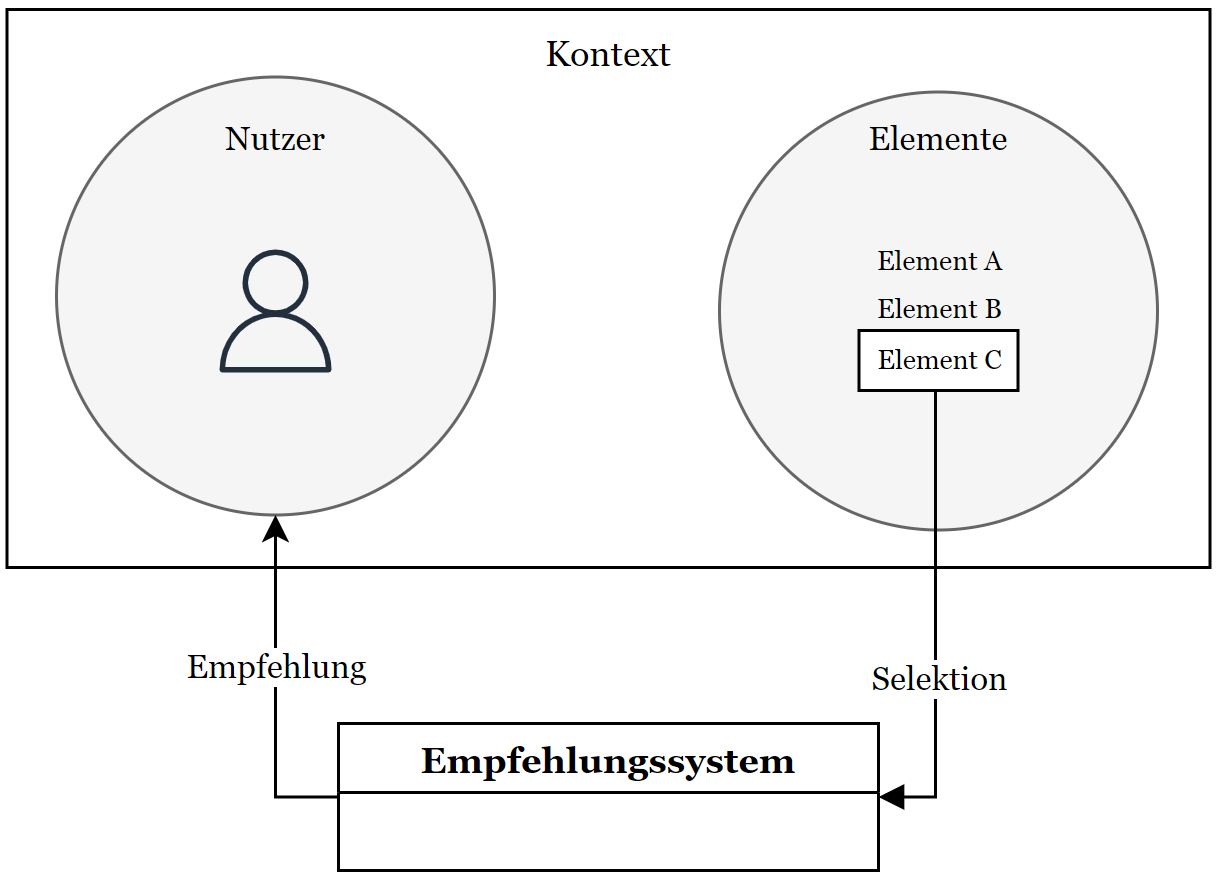
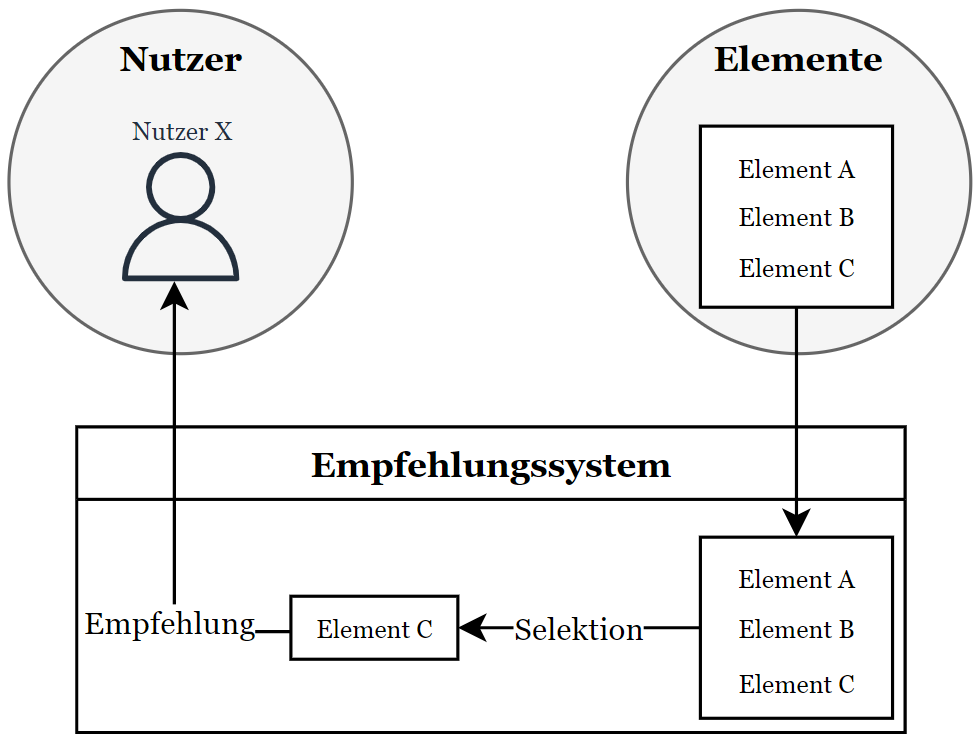
start korrektur kapitel 2

diff --git a/chapters/empfehlungssysteme.tex b/chapters/empfehlungssysteme.tex
@@ -8,69 +8,81 @@
 
 \section{Einführung}
 \label{ch:empfehlungssysteme:einführung}
-Im einfachsten Sinne können Empfehlungssysteme (engl.: \ac{RS}) als Techniken und Werkzeuge verstanden werden, die Nutzern eines Systems aus einer Menge an Elementen potenziell nützliche Elemente vorschlagen \cite[S. 10]{ricci:inbook}.
-% Wie sage ich im einfachsten sinn, wenn es nicht genau so im zitat steht?
-Etwas feingranularer definiert \textcite[S. 1]{klahold:book} Empfehlungssysteme als Systeme, die einem Nutzer oder einer Gruppe an Nutzern in einem gegebenen Kontext aus einer Menge möglicher Entitäten eine Teilmenge "nützlicher" Elemente empfehlen.
-Aus der Definition von \textcite[S. 1]{klahold:book} lassen sich die grundlegenden Komponenten, die für das Erstellen von Empfehlungen in Empfehlungssystemen von Bedeutung sind, deutlich abgrenzen.
-% Andere Wortwahl als "sehr deutlich hervorgehen", will sowas sagen wie, es ist sehr klar zu erkennen, welche komponenten beteiligt sind.
-Für ein fundiertes Verständnis sind die einzelnen Komponenten und deren Zusammenspiel in Abbildung \ref{fig:empfehlungssysteme:einführung:abb1} vereinfacht dargestellt.
+Nach \textcite[S. 4]{ricci:inbook} können Empfehlungssysteme (engl.: \ac{RS}) allgemein als Techniken und Werkzeuge verstanden werden, die einem Nutzer oder einer Gruppe an Nutzern eines Systems, aus einer Menge möglicher Entitäten, potenziell nützliche Elemente vorschlagen.
+% Allgemein können Empfehlungssysteme (engl.: \ac{RS}) als Techniken und Werkzeuge verstanden werden, die einem Nutzer oder einer Gruppe an Nutzern eines Systems, aus einer Menge möglicher Entitäten, potenziell nützliche Elemente vorschlagen \cite[S. 4]{ricci:inbook}\cite[S. 1]{klahold:book}.
+% Im einfachsten Sinne können Empfehlungssysteme (engl.: \ac{RS}) als Techniken und Werkzeuge verstanden werden, die Nutzern eines Systems aus einer Menge an Elementen potenziell nützliche Elemente vorschlagen \cite[S. 10]{ricci:inbook}.
+% Etwas feingranularer definiert \textcite[S. 1]{klahold:book} Empfehlungssysteme als Systeme, die einem Nutzer oder einer Gruppe an Nutzern in einem gegebenen Kontext aus einer Menge möglicher Entitäten eine Teilmenge "nützlicher" Elemente empfehlen.
+Aus der Definition von \textcite[S. 4]{ricci:inbook} lassen sich grundlegende Komponenten, die für das Erstellen von Empfehlungen in Empfehlungssystemen von Bedeutung sind, abgrenzen.
+Für ein fundiertes Verständnis sind die einzelnen Komponenten und deren Zusammenspiel in Abbildung \ref{fig:empfehlungssysteme:einführung:abb1} dargestellt.
 
 \begin{figure}[H]
     \centering
 	\includegraphics[width=0.8\textwidth]{gfx/komponenten-empfehlungssystem.png}
-	\caption[Komponenten eines Empfehlungssystems]{Komponenten eines Empfehlungssystems\\
+	\caption[Übersicht Empfehlungssystem]{Übersicht Empfehlungssystem\\
 	(Eigene Darstellung in Anlehnung an \cite[S. 2]{klahold:book})}
 	\label{fig:empfehlungssysteme:einführung:abb1}
 \end{figure}
 
-Wie aus Abbildung \ref{fig:empfehlungssysteme:einführung:abb1} hervorgeht, stehen sich in  Empfehlungssystemen grundsätzlich zwei Akteure gegenüber.
-% Frage: kann man Elemente als "Akteur" bezeichnen oder anderes Wort dafür?
-Auf der einen Seite stehen Empfänger von Empfehlungen, welche in Empfehlungssystemen meist als Nutzer bezeichnet werden \cite[S. 8]{ricci:inbook}.
-Dem gegenüber stehen Entitäten, die Nutzern empfohlen werden können.
-Entitäten werden in Empfehlungssystemen als Elemente bezeichnet und bilden den Inhalt von Empfehlungen.
-Dabei kann es sich bei Elementen sowohl um Gegenstände wie CDs, Bücher und Klamotten handeln, als auch beispielsweise Personen, Orte oder Prozesse.
+% Klärungsbedarf: Nutzer bewusst immer als nutzer bezeichenn, damit klar sit was gemeint ist, das ist sehr häufig in der literatur so
+% Hier fragen, ob bildbeschreibung sinn macht. ich will allgemeine übersicht abbilden, nutzer und elemente können ja auch lediglich inputs darstellen und nicht komponenten DES empfehlungssystems
+Wie aus Abbildung \ref{fig:empfehlungssysteme:einführung:abb1} hervorgeht, stehen sich bei Empfehlungssystemen grundsätzlich zwei Komponenten gegenüber.
+Auf der einen Seite stehen Empfänger von Vorschlägen, welche in Empfehlungssystemen als Nutzer bezeichnet werden \cite[S. 8]{ricci:inbook}.
+Dem entgegen stehen Entitäten, die den Anwendern eines Systems empfohlen werden können.
+Entitäten werden in Empfehlungssystemen als Elemente bezeichnet und bilden den Inhalt von Vorschlägen.
+Dabei kann es sich bei Elementen sowohl um Gegenstände wie CDs, Bücher und Hotels handeln, als auch beispielsweise Personen, Orte oder Prozesse \cite[S. 4]{klahold:book}.
 % Unter dem Kontext einer Empfehlung versteht \textcite[S. 1]{klahold:book} das Zusammenspiel aus der Situation, in der eine Empfehlung gegeben wird, dem Profil eines Nutzers sowie der Menge möglicher Entitäten zum Zeitpunkt einer Empfehlung.
-Unter dem Kontext einer Empfehlung verstehen \textcite[S. 191]{adomavicius:3:inbook} zusätzliche Parameter wie Uhrzeit, Ort oder die Gegenwart anderer Personen zum Zeitpunkt einer Empfehlung.\footnote{\textcite[S. 1]{klahold:book} versteht unter dem Kontext das Zusammenspiel aus der Situation, in der eine Empfehlung gegeben wird, dem Profil eines Nutzers sowie der Menge möglicher Entitäten zum Zeitpunkt einer Empfehlung. Es wird angenommen, dass der Kontext nach dem Verständnis von \textcite{ricci:book} gleichzusetzen ist mit der Situation nach dem Verstängnis von \textcite{klahold:book} und die Berücksichtigung von Nutzerprofil und Elementen nach dem Verständnis von \textcite{ricci:book} implizit stattfindet.}
+% Unter dem Kontext einer Empfehlung verstehen \textcite[S. 191]{adomavicius:3:inbook} zusätzliche Parameter wie Uhrzeit, Ort oder die Gegenwart anderer Personen zum Zeitpunkt einer Empfehlung.\footnote{\textcite[S. 1]{klahold:book} versteht unter dem Kontext das Zusammenspiel aus der Situation, in der eine Empfehlung gegeben wird, dem Profil eines Nutzers sowie der Menge möglicher Entitäten zum Zeitpunkt einer Empfehlung. Es wird angenommen, dass der Kontext nach dem Verständnis von \textcite{ricci:book} gleichzusetzen ist mit der Situation nach dem Verstängnis von \textcite{klahold:book} und die Berücksichtigung von Nutzerprofil und Elementen nach dem Verständnis von \textcite{ricci:book} implizit stattfindet.}
 
-Darüber hinaus können Nutzer in Empfehlungssystemen mit Elementen in Beziehung gesetzt werden.
-Beispielsweise kann eine Beziehung zwischen einem Nutzer und einem Element unterstellt werden, wenn ein Nutzer in der Vergangenheit ein Element gekauft oder bewertet hat.
-Solche Beziehungen zwischen Elementen und Nutzern in Empfehlungssystemen werden als Nutzer- Element- Interaktion oder Transaktion bezeichnet \cite[S. 8]{recommenderSystems:2016}\cite[S. 9]{ricci:inbook}.
+% Hier Johannes fragen, ob das verständlicher ist
+Nutzer und Elemente können in Empfehlungssystemen miteinander in Beziehung stehen.
+Grundlage dieser Beziehungen bilden dokumentierte Interaktionen zwischen Nutzern und Empfehlungssystem, wie der Kauf oder die Bewertung eines Produktes durch einen Anwender \cite[S. 8ff.]{ricci:inbook}.
+Dokumentierte Interaktionen werden in Empfehlungssystemen als Nutzer-Element-Interaktion oder Transaktion bezeichnet \cite[S. 8]{recommenderSystems:2016}\cite[S. 9]{ricci:inbook}.
 
-Neben Transaktionen können Nutzer bzw. Elemente in Empfehlungssystemen zusätzliche Attribute besitzen.
-Bekannte Beispiele für Attribute eines Nutzers sind das Geschlecht oder Alter eines Nutzers, während Attribute eines Produktes beispielsweise die Produktkategorie oder der Preis sein können.
+Die bekannteste Form der Nutzer-Element-Interaktion stellen Bewertungen dar.
+Bewertungen von Elementen in Empfehlungssystemen können sowohl explizit als auch implizit erfolgen.
+Unter expliziter Bewertung wird in Empfehlungssystemen die ausdrückliche Bewertung eines Elements durch einen Nutzer verstanden \cite[S. 9]{ricci:inbook}.
+Ein Beispiel stellt die aktive Bewertung eines Produktes durch einen Nutzer in einem Online-Shop in Form einer Produktrezension (z.B. "Gefällt-mir"-Angabe) dar.
+Im Vergleich dazu werden unter impliziten Bewertungen passiv erzeugte Verhaltensdaten, wie der Suchverlauf oder die Kaufhistorie eines Nutzers, verstanden, die indirekt mögliche Präferenzen eines Nutzers vermuten lassen \cite[S. 149]{jadidinejad:inproceedings}\cite[S. 403]{unternährer:article}.
+
+Neben Transaktionen können Nutzer bzw. Elemente in Empfehlungssystemen zusätzliche Attribute besitzen \cite[S. 8]{recommenderSystems:2016}.
+Beispiele für Attribute eines Nutzers sind das Geschlecht oder Alter eines Anwenders, während Attribute eines Produktes beispielsweise die Produktkategorie oder beschreibende Schlagwörter.
 % Unterschied Kombination und Interaktion? Kombibnation ist nicht zwangsläufig das vorhandensein einer Interaktion
-
-% Einigung: Nützlichkeit bezieht sich nicht auf die Güte einer Empfehlung, sondern auf den Nutzen einer Kombination. Güte beschreibt Wert einer Empfehlung.
-Der Begriff der "Nützlichkeit" wird in der Literatur vermehrt verwendet, um den Wert eines Elements für einen Nutzer zu beschreiben \cite[S. 10f.]{ricci:inbook}\cite[S. 1]{klahold:book}\cite[S. 735]{adomavicius:inproceedings}.\footnote{Unter der Nützlichkeit kann in dem Kontext von Empfehlungssystemen auch die Güte einer Empfehlung verstanden werden \cite[S. 37ff.]{klahold:book}.}
-Dabei kann der Nutzen sowohl unmittelbar über Angaben eines Nutzers erschlossen, als auch über eine Nutzenfunktion des Empfehlungssystems berechnet werden \cite[S. 735]{adomavicius:inproceedings}.
-Da die Ermittlung des Nutzen durchaus komplex sein kann, wird der Aspekt der "Nützlichkeit" in Kapitel \ref{ch:empfehlungssysteme:nutzenfunktion} ausführlich aufgegriffen.
 
 \section{Problemstellung}
 \label{ch:empfehlungssysteme:problemstellung}
 % Im vorangegangenen Kapitel wurden grundlegende Komponenten von Empfehlungssystemen und deren Zusammenspiel erläutert.
-Das grundlegende Problem, welches Empfehlungssysteme zu lösen versuchen, besteht darin, aus einer Menge an Elementen das Element bzw. die Elemente zu ermitteln, von denen angenommen werden kann, dass diese für die Empfänger einer Empfehlung von Relevanz sind \cite[S. 734f.]{adomavicius:inproceedings}\cite[S. 76]{jannach:inproceedings}.
-Relevanz bedeutet in dem Kontext von Empfehlungssystemen, dass die Empfehlung an einen Nutzer bzw. eine Gruppe an Nutzern einen maximalen Nutzen bietet \cite[S. 49]{adomavicius:inproceedings:2}\cite[S. 219]{lakiotaki:inproceedings}.
+% Das grundlegende Problem in Empfehlungssystemen besteht in der Auswahl der Elemente aus einer Menge an Entitäten, von denen angenommen werden kann, dass diese für die Empfänger einer Empfehlung von Relevanz sind \cite[S. 734f.]{adomavicius:inproceedings}\cite[S. 76]{jannach:inproceedings}.
+Das grundlegende Problem in Empfehlungssystemen besteht in der Auswahl der Elemente, von denen angenommen werden kann, dass diese für die Empfänger einer Empfehlung von Relevanz sind \cite[S. 734f.]{adomavicius:inproceedings}\cite[S. 76]{jannach:inproceedings}.
+Relevanz bedeutet in dem Kontext von Empfehlungssystemen, dass ein Element für einen Nutzer bzw. eine Gruppe an Nutzern einen maximalen Nutzen bietet \cite[S. 49f.]{adomavicius:inproceedings:2}\cite[S. 219]{lakiotaki:inproceedings}.
 Formal ausgedrückt besteht das Problem darin, einem Nutzer $c$ eine Menge an Elementen $s^{'}$ $\in$ $S$ zur Verfügung zu stellen, für die gilt:
 \begin{equation}\label{eq1}
     \forall c\in C,  s'_c = arg\max_{s \in S} R(c,s)
 \end{equation}
-Hierbei gibt $C$ die Menge aller Nutzer eines Systems und $R(c,s)$ den Nutzen einer Kombination $(c,s)$ an Element $s$ und Nutzer $c$ (im Folgenden Nutzer- Element- Kombination genannt \cite[S. 3]{recommenderSystems:2016}) an \cite[S. 734f.]{adomavicius:inproceedings}\cite[S. 219]{lakiotaki:inproceedings}.
-Der Kontext $K$ wird in \textcite[S. 1]{klahold:book} explizit für die Ermittlung des Nutzen einer Nutzer- Element- Kombination angeführt.
-Grundsätzlich stellen kontextbasierte Empfehlungssysteme, das heißt Syteme, die den Kontext von Empfehlungen für die Ermittlung des Nutzen berücksichtigen, eine Erweiterung traditioneller Empfehlungssyteme dar \cite[S. 744ff.]{adomavicius:inproceedings}.
-In der Literatur wird der Nutzen einer Nutzer- Element- Kombination traditionell ohne Berücksichtigung des Kontextes betrachtet, weshalb der Kontext von Empfehlungen in dieser Arbeit vernachlässigt wird \cite[S. 734f.]{adomavicius:inproceedings}\cite[S. 219]{lakiotaki:inproceedings}\cite[S. 3]{jawaheer:article}.
-In Anlehnung an \textcite[S. 3]{jawaheer:article} wird der interessierte Leser für eine detaillierte Übersicht zu kontextbasierten Empfehlungssystemen auf \textcite[S. 191ff]{adomavicius:3:inbook} verwiesen.
+Hierbei gibt $C$ die Menge aller Nutzer eines Systems und $R(c,s)$ den Nutzen einer Kombination $(c,s)$ an Element $s$ und Nutzer $c$ (im Folgenden \ac{N-E-K} genannt \cite[S. 3]{recommenderSystems:2016}) an \cite[S. 734f.]{adomavicius:inproceedings}\cite[S. 219]{lakiotaki:inproceedings}.
+
+% Der Kontext $K$ wird in \textcite[S. 1]{klahold:book} explizit für die Ermittlung des Nutzen einer Nutzer- Element- Kombination angeführt.
+% Unter dem Kontext einer Empfehlung verstehen \textcite[S. 191]{adomavicius:3:inbook} zusätzliche Parameter wie Uhrzeit, Ort oder die Gegenwart anderer Personen zum Zeitpunkt einer Empfehlung.
+% Grundsätzlich stellen kontextbasierte Empfehlungssysteme, das heißt Syteme, die den Kontext von Empfehlungen für die Ermittlung des Nutzen berücksichtigen, eine Erweiterung traditioneller Empfehlungssyteme dar \cite[S. 744ff.]{adomavicius:inproceedings}.
+% In der Literatur wird der Nutzen einer Nutzer- Element- Kombination traditionell ohne Berücksichtigung des Kontextes betrachtet, weshalb der Kontext von Empfehlungen in dieser Arbeit vernachlässigt wird \cite[S. 734f.]{adomavicius:inproceedings}\cite[S. 219]{lakiotaki:inproceedings}\cite[S. 3]{jawaheer:article}.
+% In Anlehnung an \textcite[S. 3]{jawaheer:article} wird der interessierte Leser für eine detaillierte Übersicht zu kontextbasierten Empfehlungssystemen auf \textcite[S. 191ff]{adomavicius:3:inbook} verwiesen.
 % In den Formulierungen der Gleichung in \cite[S. 734f]{adomavicius:inproceedings} und \cite[S. 219]{lakiotaki:inproceedings} wird jedoch nicht explizit auf den Kontext als Bedingung zur Erfüllung von Gleichung \ref{eq1} hingewiesen.
 % Es wird angenommen, dass der Kontext für die Ermittlung der Güte einer Empfehlung implizit berücksichtigt wird und daher auf eine explizite Nennung verzichtet wurde. In Anlehnung an \cite[S. 734f]{adomavicius:inproceedings} und \cite[S. 219]{lakiotaki:inproceedings} wurde daher auf die explizite Unterscheidung im weiteren Verlauf verzichtet.
 
-Da es sich bei dem Problem des Ermittelns einer nutzenmaximierenden Teilmenge aus einer Menge an Elementen um ein Maximierungs- Problem handelt, kann das Problem der Kategorie der Optimierungsprobleme, wie in \textcite[S. 1]{book:kallrath} definiert, zugeordnet werden.
+Bei dem beschriebenen Problem in Gleichung \ref{eq1} handelt es sich um ein Maximierungsproblem.
+Nach \textcite[S. 1]{book:kallrath} können Maximierungsprobleme der Kategorie der Optimierungsprobleme zugeordnet werden.
+Die Problematik des Ermittelns einer nutzenmaximierenden Teilmenge aus einer Menge an Elementen gehört demnach zu der Kategorie der Optimierungsprobleme.
+% Da es sich bei dem Problem des Ermittelns einer nutzenmaximierenden Teilmenge aus einer Menge an Elementen um ein Maximierungsproblem handelt, kann das Problem der Kategorie der Optimierungsprobleme, wie in \textcite[S. 1]{book:kallrath} definiert, zugeordnet werden.
+
+% Einigung: Nützlichkeit bezieht sich nicht auf die Güte einer Empfehlung, sondern auf den Nutzen einer Kombination. Güte beschreibt Wert einer Empfehlung.
+Der Begriff der "Nützlichkeit" wird in der Literatur vermehrt verwendet, um den Wert eines Elements für einen Nutzer zu beschreiben \cite[S. 10f.]{ricci:inbook}\cite[S. 1]{klahold:book}\cite[S. 735]{adomavicius:inproceedings}.\footnote{Unter der Nützlichkeit kann in dem Kontext von Empfehlungssystemen auch die Güte einer Empfehlung verstanden werden \cite[S. 37ff.]{klahold:book}.}
+Dabei kann der Nutzen sowohl unmittelbar über Angaben eines Anwenders erschlossen, als auch über eine Nutzenfunktion des Empfehlungssystems berechnet werden \cite[S. 735]{adomavicius:inproceedings}.
+Da die Ermittlung des Nutzens durchaus komplex sein kann, wird der Aspekt der "Nützlichkeit" nachfolgend ausführlich aufgegriffen.
 
 \section{Nutzenfunktion} % Unterschied Nutzen und Güte?
 \label{ch:empfehlungssysteme:nutzenfunktion}
 % Frage: ist mit der Güte die Güte einer Empfehlung gemeint (gefällt einem nutzer die Empfehlung ja/nein), oder ist damit die Güte im Sinne von die Qualität von Empfehlungssystemen gemeint?
 % Der erfolgreiche Einsatz von Empfehlungssystemen wird maßgeblich von der Qualität der ausgesprochenen Empfehlungen bestimmt.
-In Kapitel \ref{ch:empfehlungssysteme:einführung} wurde bereits darauf hingewiesen, dass die Ermittlung der "Nützlichkeit" in Empfehlungssystemen durchaus komplex sein kann.
-
-Wie aus Gleichung \ref{eq1} hervorgeht, wird für den Nutzen einer Nutzer- Element- Kombination in Empfehlungssystemen allgemein eine Funktion $R(c,s)$ angenommen.
+Wie aus Gleichung \ref{eq1} hervorgeht, wird für den Nutzen einer \ac{N-E-K} in Empfehlungssystemen allgemein eine Funktion $R$ angenommen.
 Diese Funktion wird Nutzenfunktion (engl.: utility function) genannt und ist traditionell definiert als \cite[S. 195]{adomavicius:3:inbook}\cite[S. 3]{jawaheer:article}:
 \begin{equation}\label{eq2}% Dabei handelt es sich um eine lineare Abbildung, bei der über die Funktion u jeder Kombination aus der nxm matrix, genau ein Wert aus R, also der Rating matrix, zugeordnet werden kann
     R: Nutzer \times Element \rightarrow R_{0}
@@ -80,26 +92,25 @@ $R_{0}$ umfasst alle Werte, die der Nutzen von Kombinationen annehmen kann \cite
 % In Systemen, in denen der Wert einer Transaktion beispielsweise über eine explizite, binäre Bewertung (z.B. "Gut", "Schlecht") eines Nutzers für ein Element bestimmt wird, würde $R_{0}$ genau die zwei Ausprägungen umfassen, die eine Bewertung annehmen kann (hier: "Gut" und "Schlecht").
 
 Grundsätzlich kann die Nutzenfunktion in Empfehlungssystemen jede beliebige Funktion darstellen \cite[S. 735]{adomavicius:inproceedings}.
-Angenommen das Ziel eines Empfehlungssystems besteht darin, den Gesamtumsatz eines Unternehmens zu maximieren, so kann der Nutzen einer Nutzer- Element- Kombination über eine Profit-Funktion ermittelt werden.
+Besteht das Ziel eines Empfehlungssystems bespielsweise darin, den Gesamtumsatz eines Unternehmens zu maximieren, so kann der Nutzen einer \ac{N-E-K} über eine Profit-Funktion ermittelt werden \cite[S. 735]{adomavicius:inproceedings}.
 % Solche Systeme, in denen der Nutzen von Nutzer- Element- Kombinationen über eine eigenständige Nutzenfunktion ermittelt wird, zählen zu den nutzenbasierten Empfehlungssystemen und sind nicht Inhalt dieser Arbeit.
-In den meisten Empfehlungssystemen wird für den Nutzen $R(c,s)$ einer Nutzer- Element- Kombination $(c,s)$ unmittelbar die Bewertung (engl.: Rating) $r_{cs}$ eines Element $s$ durch einen Nutzer $c$ angenommen \cite[S. 735]{adomavicius:inproceedings}\cite[S. 9]{ricci:inbook}\cite[S. 11]{recommenderSystems:2016}.
+In den meisten Empfehlungssystemen wird für den Nutzen $R(c,s)$ unmittelbar die Bewertung (engl.: Rating) $r_{cs}$ eines Element $s$ durch einen Nutzer $c$ angenommen \cite[S. 735]{adomavicius:inproceedings}\cite[S. 9]{ricci:inbook}\cite[S. 11]{recommenderSystems:2016}.
 Daher ist die Nutzenfunktion in der Literatur auch als Rating-Funktion oder Rating-Matrix bekannt \cite[S. 49]{adomavicius:inproceedings:2}\cite[S. 91]{ekstrand:article}\cite[S. 11]{recommenderSystems:2016}.
-Aus Gründen der Einfachheit wird für den weiteren Verlauf der Arbeit vorerst unmittelbar der Wert der Bewertung $r_{cs}$ für den Nutzen $R(c,s)$ einer Nutzer- Element- Kombination angenommen (d.h. $R(c,s) = r_{cs}$).
-% HIER ERWÄHNEN DASS ERSTMAL AUCH RATING GENOMMEN WIRD!
+Aus Gründen der Einfachheit wird für den weiteren Verlauf der Arbeit ebenfalls der Wert einer Bewertung $r_{cs}$ für den Nutzen $R(c,s)$ einer \ac{N-E-K} $(c,s)$ angenommen (d.h. $R(c,s) = r_{cs}$).
 % Diese Abbildung einer Funktion als Matrix folgt der mathematischen Definition von Matrizen als lineare Funktion.
 % Es wird davon ausgegangen, dass die gängige Verwendung des Ratings als Maß des Nutzen eines Elements für einen Nutzer daher kommt, dass Empfehlungssysteme traditionell in dem Kontext item-to-people-recommendation eingesetzt wurden.
 % In solchen systemen ist es meistens das ziel, die elemente zu empfehlen, die den nutzer am meisten ansprechen. -> Folglich Nutzen einer Nutzer-Element-Kombination bedeutet Nutzen eines Elements für einen Nutzer. (kann aber ja auch bedeuten nutzen eines elements für einen nutzer im sinne von profitmaximierung)
 % Unter der Annahme ist damit erklärbar, dass mit einer gewissen Konfidenz davon ausgegangen werden kann, dass die Bewertung eines Nutzers für ein Element auch dessen gefühlten Nutzen des ELements für ihn abbildet.
 
-Bewertungen von Elementen in Empfehlungssystemen können sowohl explizit als auch implizit erfolgen.
-Unter expliziter Bewertung kann in Empfehlungssystemen die ausdrückliche Bewertung eines Elements durch einen Nutzer verstanden werden.
-Ein Beispiel stellt die aktive Bewertung eines Produktes durch einen Nutzer in einem Online-Shop in Form einer Produktrezension (z.B. "Gefällt-mir"-Angabe) dar.
-Im Vergleich dazu werden unter impliziten Bewertungen in Empfehlungssystemen passiv erzeugte Verhaltensdaten, wie der Suchverlauf oder die Kaufhistorie eines Nutzers, verstanden, die indirekt mögliche Präferenzen eines Nutzers vermuten lassen \cite[S. 149]{jadidinejad:inproceedings}\cite[S. 403]{unternährer:article}.
+%Bewertungen von Elementen in Empfehlungssystemen können sowohl explizit als auch implizit erfolgen.
+%Unter expliziter Bewertung kann in Empfehlungssystemen die ausdrückliche Bewertung eines Elements durch einen Nutzer verstanden werden.
+%Ein Beispiel stellt die aktive Bewertung eines Produktes durch einen Nutzer in einem Online-Shop in Form einer Produktrezension (z.B. "Gefällt-mir"-Angabe) dar.
+%Im Vergleich dazu werden unter impliziten Bewertungen in Empfehlungssystemen passiv erzeugte Verhaltensdaten, wie der Suchverlauf oder die Kaufhistorie eines Nutzers, verstanden, die indirekt mögliche Präferenzen eines Nutzers vermuten lassen \cite[S. 149]{jadidinejad:inproceedings}\cite[S. 403]{unternährer:article}.
 % IDEE: hier einfügen Rating Scales? Ordinal, numeric, etc.
 
 Tabelle \ref{tab1} stellt beispielhaft den Ausschnitt einer Rating-Matrix $R$ dar, welche explizite Bewertungen von Mitarbeitern zu ihren Fähigkeiten abbildet \cite[S. 735]{adomavicius:inproceedings}\cite[S. 16]{link:booklet}.
 Hierbei stellen Mitarbeiter die Nutzer und Fähigkeiten die Elemente des Systems dar.
-Der Nutzen $R(c,s)$ einer Kombination wird unmittelbar über die Bewertung $r_{cs}$ eines Mitarbeiters $c$ für eine Fähigkeit $s$ bestimmt.
+Der Nutzen einer Kombination $R(c,s)$ wird unmittelbar über die Bewertung $r_{cs}$ eines Mitarbeiters $c$ für eine Fähigkeit $s$ bestimmt.
 Eine Bewertung kann jeden Wert in $R_{0}=\{1;2;3;4;5\}$ annehmen.
 
 \begin{table}[htbp]
@@ -123,15 +134,12 @@ Eine Bewertung kann jeden Wert in $R_{0}=\{1;2;3;4;5\}$ annehmen.
 
 Der Rating-Matrix $R$ können alle angegebenen Bewertungen von Mitarbeitern zu ihren Fähigkeiten entnommen werden.
 So wird beispielsweise ersichtlich, dass Jane D. im Verhältnis zu den anderen Mitarbeitern ihre Fähigkeiten in Python am höchsten bewertet hat.
-Darüber hinaus geht aus Tabelle \ref{tab1} hervor, dass einige Nutzer- Element- Kombinationen $(c,s)$ anstelle einer Bewertung $r_{cs}$ ein Fragezeichen beinhalten.
-Das Fragezeichen kennzeichnet die Kombinationen des Empfehlungssystems, für deren Transaktion kein Wert bekannt ist.
-Das kann beispielsweise bei Nutzern der Fall sein, die noch keine Elemente bewertet haben, oder bei Elementen, die neu einem System hinzugefügt wurden und noch keine Interaktion mit Nutzern des Systems aufweisen.
+Darüber hinaus geht aus Tabelle \ref{tab1} hervor, dass einige Kombinationen an Nutzer und Element anstelle einer Bewertung $r_{cs}$ ein Fragezeichen beinhalten.
+Dieses kennzeichnet die Kombinationen des Empfehlungssystems, für die keine Bewertungen vorhanden sind.
+Das kann beispielsweise bei Nutzern der Fall sein, die noch keine Elemente bewertet haben, oder bei Elementen, die neu zu einer Anwendung hinzugefügt wurden und noch keine Interaktion mit Nutzern des Systems aufweisen.
 Wie im nachfolgenden Kapitel deutlich werden wird, stellt die Vorhersage fehlender Nutzer-Element-Interaktionen eine der Kernaufgaben von Empfehlungssystemen dar.
-% Zu den Herausforderungen von Empfehlungssystemen zählt das Ermitteln der angenommenen Werte $R(c_{i},s_{j})$ für Nutzer bzw. Elemente, für die keine Bewertungen vorliegen.
 % Nach \textcite[S. 37]{klahold:book} besteht eine der Herausforderungen in der Ermittlung des tatsächlichen Nutzen einer Empfehlung darin, dass für eine objektive Beurteilung die genaue Nutzenfunktion einer Empfehlung an einen Nutzer bekannt sein muss.
-% In der Praxis gestaltet sich die Bestimmung einer akkuraten Nutzenfunktion zur Ermittlung der Güte einer Empfehlung für die Nutzer eines Systems jedoch zumeist schwierig.
 % Hier ergänzen nach gespräch mit Andreas. Quellen dazu: Klahod S. 37ff und hier: https://api-depositonce.tu-berlin.de/server/api/core/bitstreams/b490302e-8b6a-4300-946f-b5763c2b47d7/content
-% The design of effective utility functions often requires domain-specific knowledge, or learning data from past user interactions. % aggarwal, S. 178
 
 \section{Erstellen von Empfehlungen}
 \label{ch:empfehlungssysteme:empfehlungserstellung}
@@ -142,21 +150,22 @@ Grundsätzlich kann das Erstellen von Empfehlungen in Empfehlungssystemen in zwe
 	\item Ranking-Phase
 \end{enumerate}
 
-In der Vorhersage-Phase werden für alle Nutzer-Element-Kombinationen, für die keine Transaktionen vorliegen, deren Nutzer-Element-Interaktion vorhergesagt.
-Für die Ranking-Phase werden die (angenommenen) Nutzer-Element-Interaktionen aus Phase 1 herangezogen, in Abhängigkeit ihrer Nützlichkeit sortiert und das Element bzw. die Elemente mit dem größten Nutzen empfohlen.
+In der Vorhersage-Phase werden für alle \ac{N-E-K}-en, für die keine Transaktionen vorliegen, deren Nutzer-Element-Interaktion vorhergesagt \cite[S. 3]{recommenderSystems:2016}.
+Für die Ranking-Phase werden die (angenommenen) Nutzer-Element-Interakti\-onen aus Phase 1 herangezogen, in Abhängigkeit ihrer Nützlichkeit sortiert und das Element bzw. die Elemente mit dem größten Nutzen empfohlen \cite[S. 854]{adomavicius:4:inbook}.
 Nachfolgend werden die einzelnen Phasen im Detail erläutert.
 
 \subsection{Vorhersage}
 \label{ch:empfehlungssysteme:empfehlungserstellung:prediction}
 % Ratings normalerweise nur vorhanden bei nutzern, die diese produkte in der vergangenheit bewertet haben, S. 735, file://wsl%24/Ubuntu/home/masc6/Projects/masterarbeit/literatur/Toward_the_next_generation_of_recommender_systems_a_survey_of_the_state-of-the-art_and_possible_extensions.pdf
-Wie aus Gleichung \ref{eq1} hervorgeht, ist das Vorhandensein eines Wertes für eine Nutzer- Element- Interaktion Voraussetzung, um die Nützlichkeit der Kombination im Vergleich zu anderen Nutzer- Element- Kombinationen zu bewerten.
+Wie aus Gleichung \ref{eq1} hervorgeht, ist das Vorhandensein einer Nutzer-Ele\-ment-Interaktion Voraussetzung, um die Nützlichkeit einer Kombination im Vergleich zu anderen \ac{N-E-K}-en zu bewerten.
 Eine gängige Eigenschaft von Umgebungen, in denen Empfehlungssysteme ihren Einsatz finden, ist, dass die zugrundeliegenden Daten unvollständig sind \cite[S. 735]{adomavicius:inproceedings}.
 Das bedeutet, dass nicht für jede Kombination an Nutzer und Element ein Wert für $r_{cs}$ vorliegt (wie in Tabelle \ref{tab1} durch Fragezeichen gekennzeichnet).
 So ist es beispielsweise anhand der Daten aus Tabelle \ref{tab1} nicht möglich zu Beurteilen, welche der beiden Mitarbeiter Jane D. und Erika M. die Fähigkeit Java besser beherrscht.
 % Würde beispielsweise für Erika M. aus Tabelle \ref{tab1} versucht zu Bestimmen, ob ihre Fähigkeiten in Java oder Python höher sind, könnte anhand von Gleichung \ref{eq1} aufgrund der fehlenden Nutzer-Element-Interaktion keine Aussage getroffen werden.
 
-Aufgabe eines Empfehlungssystems ist es daher die fehlenden Werte für Nutzer- Element- Kombinationen der Rating-Matrix $R$ vorherzusagen.
-Für die Vorhersage einer Nutzer- Element- Kombination $\hat{r}_{c,s}$ der Matrix $R$ kann allgemein folgende Formel angenommen werden (in Anlehnung an \cite[S. 743]{adomavicius:inproceedings}):\footnote{Voraussetzung der Gültigkeit der Formel \ref{eq3} ist die Annahme, dass gilt $r_{cs} = R(c,s)$. Das bedeutet, dass für den Nutzen einer Nutzer- Element- Kombination unmittelbar der Wert der Bewertung $r_{cs}$ eines Nutzers $c$ für das Element $s$ angenommen werden kann (Vgl. Kapitel \ref{ch:empfehlungssysteme:nutzenfunktion}).}
+Aufgabe eines Empfehlungssystems ist es daher, die fehlenden Bewertungen für \ac{N-E-K}-en der Rating-Matrix $R$ vorherzusagen.
+Sei $\hat{r}_{cs}$ der angenommene Wert einer Nutzer-Element-Interaktion, so wird $\hat{r}_{cs}$ in Empfehlungssystemen allgemein wie folgt vorhergesagt (in Anlehnung an \cite[S. 743]{adomavicius:inproceedings}):\footnote{Voraussetzung der Gültigkeit der Formel \ref{eq3} ist die Annahme, dass gilt $r_{cs} = R(c,s)$. Das bedeutet, dass für den Nutzen einer \ac{N-E-K} unmittelbar der Wert der Bewertung $r_{cs}$ eines Nutzers $c$ für das Element $s$ angenommen werden kann (Vgl. Kapitel \ref{ch:empfehlungssysteme:nutzenfunktion}).}
+% Für die Vorhersage einer Nutzer- Element- Kombination $\hat{r}_{cs}$ der Matrix R kann allgemein folgende Formel angenommen werden (in Anlehnung an \cite[S. 743]{adomavicius:inproceedings}):\footnote{Voraussetzung der Gültigkeit der Formel \ref{eq3} ist die Annahme, dass gilt $r_{cs} = R(c,s)$. Das bedeutet, dass für den Nutzen einer \ac{N-E-K} unmittelbar der Wert der Bewertung $r_{cs}$ eines Nutzers $c$ für das Element $s$ angenommen werden kann (Vgl. Kapitel \ref{ch:empfehlungssysteme:nutzenfunktion}).}
 \begin{equation}\label{eq3}
 \hat{r}_{cs} =
     \begin{cases}
@@ -164,28 +173,31 @@ Für die Vorhersage einer Nutzer- Element- Kombination $\hat{r}_{c,s}$ der Matri
         R(c,s) & \textnormal{wenn }r_{cs} = \textnormal{ ?} \\
     \end{cases}
 \end{equation}
-Demnach kann der Wert einer Bewertung $\hat{r}_{c,s}$ vorhergesagt werden, entweder unmittelbar über vorhandene Nutzer- Element- Interaktionen $r_{cs}$, oder unter Anwendung der Nutzenfunktion $R(c,s)$ bei fehlenden Nutzer- Element- Kombinationen.
+Das heißt, grundsätzlich wird $\hat{r}_{cs}$ entweder unmittelbar über vorhandene Nutzer-Element-Interaktionen $r_{cs}$, oder bei fehlenden Transaktionen für $(c,s)$ unter Anwendung der Nutzenfunktion $R$ vorhergesagt werden.
+%Demnach wird eine Bewertung $\hat{r}_{cs}$ entweder unmittelbar über vorhandene Nutzer-Element-Interaktionen $r_{cs}$, oder bei fehlenden Transaktionen für $(c,s)$ unter Anwendung der Nutzenfunktion $R$ vorhergesagt werden.
 % Unterschied ist, dass hier rij sich von u unterscheidet und bei uns einfach erstmal R als ein wert angenommen wird
 % Wichtig hier klar zu definieren, dass die Nützlichkeit oft so definiert ist, dass sie entweder explizit gegeben ist, oder über u berechnet wird für fehlende werte von r
 % bei uns wird dann quasi u für alle werte berechnet, da wir ja nicht explizit einen wert annehmen, sondern Ro sich aus r1 und r2 usw zusammensetzt
 
-In der Praxis existieren verschiedene Techniken, um fehlende Nutzer-Elemet-Kombinationen vorherzusagen.
+In der Praxis existieren verschiedene Techniken, um fehlende Nutzer-Ele\-ment-Interaktionen vorherzusagen.
 Empfehlungssysteme können anhand der eingesetzten Technik für die Vorhersage in verschiedene Kategorien unterteilt werden \cite[S. 8 ff.]{recommenderSystems:2016}.
 Zu den bekanntesten Kategorien von Empfehlungssystemen zählen:
 \begin{itemize}%Sind die mathematischen Bezeichnungen hier verwirrend oder sinnvoll?
-	\item \textit{Systeme des Kollaborativen Filterns:} Vorhersage fehlender Nutzer- Element- Interaktionen $r_{cs}$ eines Zielnutzers $c$ anhand vorhandener Nutzer- Element- Interaktionen $r_{c's}$ anderer Nutzer $c' \in C \backslash \{c\}$ des Systems, die dem Zielnutzer $c$ ähnlich sind.
-	\item \textit{Inhaltsbasierte Systeme:} Vorhersage fehlender Nutzer- Element- Interaktionen $r_{cs}$ eines Zielnutzers $c$ anhand vorhandener Nutzer- Element- Interaktionen $r_{cs'}$ des Zielnutzers zu Elementen $s' \in S \backslash \{s\}$, die dem Zielelement $s$ ähnlich sind.
-	\item \textit{Wissensbasierte Systeme:} Vorhersage fehlender Nutzer- Element- Interaktionen eines Zielnutzers anhand der aktiven Angabe von Präferenzen durch den Zielnutzer.
-	\item \textit{Hybride Systeme:} Kombination verschiedener Techniken für die Vorhersage fehlender Nutzer- Element- Kombinationen.
+	\item \textit{Systeme des Kollaborativen Filterns:} Vorhersage fehlender Nutzer-Element-Interaktionen $r_{cs}$ eines Zielnutzers $c$ anhand vorhandener Nutzer-Ele\-ment-Interaktionen $r_{c's}$ anderer Nutzer $c' \in C \backslash \{c\}$ des Systems, die dem Zielnutzer $c$ ähnlich sind.
+	\item \textit{Inhaltsbasierte Systeme:} Vorhersage fehlender Nutzer-Element-Interakti\-onen $r_{cs}$ eines Zielnutzers $c$ anhand vorhandener Nutzer-Element-Inter\-aktionen $r_{cs'}$ des Zielnutzers zu Elementen $s' \in S \backslash \{s\}$, die dem Zielelement $s$ ähnlich sind.
+	\item \textit{Wissensbasierte Systeme:} Vorhersage fehlender Nutzer-Element-Interakti\-onen eines Zielnutzers anhand der aktiven Angabe von Präferenzen durch den Zielnutzer.
+	\item \textit{Hybride Systeme:} Kombination verschiedener Techniken für die Vorhersage fehlender Nutzer-Element-Interaktionen.
 \end{itemize}
 
-Der Fokus dieser Arbeit liegt auf der zweiten Phase des Empfehlungserstellungs-Prozesses, weshalb auf eine Erläuterung der Techniken nachfolgend verzichtet wird.
-Für eine detaillierte Übersicht der bekanntesten Werkzeuge wird der interessierte Leser auf \textcite[S. 8ff.]{recommenderSystems:2016} verwiesen.
+Der Fokus dieser Arbeit liegt auf der zweiten Phase des Empfehlungserstel\-lungs-Prozesses, weshalb auf eine eingehende Erläuterung der Techniken nachfolgend verzichtet wird.
+Für eine detaillierte Übersicht der bekanntesten Werkzeuge wird auf \textcite[S. 8ff.]{recommenderSystems:2016} verwiesen.
 
 \subsection{Ranking}
 \label{ch:empfehlungssysteme:empfehlungserstellung:recommendation}
 Die zweite Phase umfasst die eigentliche Erstellung der Empfehlungen, die an einen Nutzer zurückgegeben werden.
-Das Ziel der zweiten Phase ist es, einem Nutzer $c$ in Abhängigkeit der gegebenen Rating-Matrix $R$ eine Empfehlung an Elementen $s'$ mit dem größtmöglichen Nutzen zu generieren \cite[S. 6]{ekstrand:article}.
+Ziel ist es, einem Nutzer $c$ in Abhängigkeit der vollständigen Rating-Matrix $R$ eine Empfehlung an Elementen $s'$ mit dem größtmöglichen Nutzen zu generieren \cite[S. 87]{ekstrand:article}.
+% Wichtig zu unterscheiden, dass die Empfehlungen nicht zwangsäufig die präferenzen des nutzers empfehlen müssen, da diese auch von anderen kriterien abhängen könnne, siehe quelle unten
+% HIER WEITERMACHEN mit S. 87, file://wsl%24/Ubuntu/home/masc6/Projects/masterarbeit/literatur/Collaborative%20Filtering%20Recommender%20Systems.pdf
 
 In Abhängigkeit des Anwendungsfalls kann eine Empfehlung verschiedene Formen annehmen.
 So kann eine Empfehlung eine Gruppe an Elementen darstellen.
@@ -194,7 +206,7 @@ In den meisten Fällen geben Empfehlungssysteme eine sortierte Liste der nützli
 Dabei wird die Nützlichkeit einer Kombination, wie in Kapitel \ref{ch:empfehlungssysteme:empfehlungserstellung:prediction} erläutert, zumeist anhand eines Ratings durch einen Nutzer bestimmt, oder über eine Nutzenfunktion in Phase 1 vorhergesagt.
 Diese Ratings erfolgen in gängigen Empfehlungssystemen zumeist anhand eines Kriteriums, beispielsweise in Form eines übergreifenden Ratings für ein Element.
 
-In der Praxis kann es vorkommen, dass von einem vorhergesagten Wert einer Nutzer- Element- Kombination nicht unmittelbar auf den tatsächlichen Rang einer Kombination im Ranking geschlossen werden kann, beispielsweise da noch andere Kriterien den Nutzen (und somit den Rang) einer Kombination beeinflussen \cite[S. 405]{unternährer:article}.
+In der Praxis kann es vorkommen, dass von einem vorhergesagten Wert einer \ac{N-E-K} nicht unmittelbar auf den tatsächlichen Rang einer Kombination im Ranking geschlossen werden kann, beispielsweise da noch andere Kriterien den Nutzen (und somit den Rang) einer Kombination beeinflussen \cite[S. 405]{unternährer:article}.
 Wie in Kapitel \ref{ch:erweiterungen} deutlich werden wird, ist die Bestimmung des Nutzen eines Elements für einen Nutzer anhand eines einzelnen Kriteriums (e.g. dem Rating) nicht immer ausreichend, um dessen Nutzen zuverlässig zu bestimmen \cite[S. 847]{adomavicius:4:inbook}.
 % ------- Hier (oder oben?) kurze Zusammenfassung der Begrifflichkeiten (siehe aggarwal, S. xviii, file:///C:/Users/masc6/OneDrive/Persoenliche_Unterlagen/Uni/Masterthesis/Aggarwal2016_Book_RecommenderSystems.pdf)
 
@@ -489,15 +501,30 @@ Das Problem besteht folglich darin, aus einer Menge an Personen eine passende Pe
 \end{figure}
 
 Nach \textcite[S. 36]{li:inproceedings} kann diese Problemstellung der reziproken Empfehlung mathematisch als das "Stable Marriage"-Problem modelliert werden.
-Das "Stable-Marriage"-Problem beschreibt das Problem eine optimale Paarung (engl.: Match) zweier Elemente anhand ihrer Präferenzen zu Bestimmen, sodass keines der Elemente durch Paarung mit einem anderen Partner besser gestellt wäre \cite[S. 36]{li:inproceedings}\cite[S. 67]{diaz:inproceedings}.
-Formal kann das Problem formuliert werden als:
-\begin{equation}\label{eq10}
-    s'_c = arg\max_{s \in S} F_{s}^{d} \textnormal{ satisfies } F_{c}^{p} \cap F_{c}^{d} \textnormal{ satisfies } F_{s}^{p}
-\end{equation}
+Das "Stable-Marriage"-Problem beschreibt das Problem der Bestimmung einer optimalen Paarung (engl.: Match) zweier Mengen an Elementen anhand ihrer Präferenzen, sodass kein Element durch Paarung mit einem anderen Partner besser gestellt wäre \cite[S. 36]{li:inproceedings}\cite[S. 67]{diaz:inproceedings}.
 
-Für reziproke Empfehlungen wird meist kein "hartes" Match zwischen Nutzer und Element gesucht, sondern eine sortierte Liste an potenziellen Partnern für einen Nutzer \cite[S. 67]{diaz:inproceedings}.
-% HIER WEITERMACHEN
-% erwähnen, dass es liste ist, also nicht nur argmax sodass ein s' gefunden wird, sondern liste an s'
+Um in dem Szenario einer reziproken Empfehlung zu ermitteln, ob ein Paar optimal ist, müssen nach \textcite[S. 36]{li:inproceedings} für jeden Nutzer $c \in C$ eine Selbstbeschreibung $F_{c}^{d}$ und Präferenzen $F_{c}^{p}$ bekannt sein.
+Analog müssen für jede Person (Element) $s \in S$ des Systems eine Selbstbeschreibung $F_{s}^{d}$ und Präferenzen $F_{s}^{p}$ bekannt sein.
+Eine optimale Paarung definieren \textcite[S. 36]{li:inproceedings} wie folgt: 
+
+\begin{definition}[Optimale Paarung]\label{def:1}
+    Sei ein Nutzer $c \in C$ und eine Person (Element) $s \in S$ gegeben, dann ist das Paar $(c,s)$ optimal, wenn $F_{c}^{d}$ maximal $F_{s}^{p}$ und $F_{s}^{d}$ maximal $F_{c}^{p}$ erfüllt.
+\end{definition}
+
+Für reziproke Empfehlungen wird meist kein hartes Match zwischen Nutzer und Element gesucht, sondern eine sortierte Liste an potenziellen Partnern für einen Nutzer \cite[S. 67]{diaz:inproceedings}.
+Das heißt, das Ziel der Empfehlungserstellung an einen Nutzer $c$ besteht darin dem Nutzer eine Liste $L_{s} \subset S$ an Personen $s$ zu empfehlen, sodass die Präferenzen $F_{s}^{p}$ und $F_{c}^{p}$ erfüllt sind \cite[S. 36]{li:inproceedings}.
+
+Nach \textcite[S. 36]{li:inproceedings} ist das Bestimmen einer optimalen Paarung in RRS erschwert, da neben der Reziprozität auch Eigenschaften wie die Verfügbarkeit von Elementen (Endlichkeit) berücksichtigt werden müssen.
+So kann es sein, dass eine Person anhand ihrer Präferenzen optimal zu einem Nutzer passt, die empfohlene Person aber in einem gegebenen Zeitraum nicht verfügbar ist.
+Um dies bei der Bestimmung von Paaren zu berücksichtigen, unterscheiden \textcite[S. 37]{li:inproceedings} daher zusätzlich zwischen optimalem und erfolgreichem Match von Nutzern und Elementen.
+Eine erfolgreiche Paarung definieren \textcite[S. 37]{li:inproceedings} wie folgt:
+
+\begin{definition}[Erfolgreiche Paarung]\label{def:2}
+    Sei ein Nutzer $c \in C$ und eine Person (Element) $s \in S$ gegeben, dann ist ein Paar $(c,s)$ erfolgreich, wenn $F_{c}^{d}$ suboptimal $F_{s}^{p}$ und $F_{s}^{d}$ suboptimal $F_{c}^{p}$ erfüllt, unter Berücksichtigung der Verfügbarkeit von $c$ und $s$.
+\end{definition}
+
+Demnach kann eine Paarung auch dann erfolgreich sein, wenn Beschreibungen von Nutzern bzw. Elementen die Präferenzen des Partners nur teilweise erfüllen \cite[S. 37]{li:inproceedings}.
+Dafür wird die Verfügbarkeit von Personen berücksichtigt.
 % nochmal hier schauen, eher genau so formulieren, wie es dort steht: file://wsl%24/Ubuntu/home/masc6/Projects/masterarbeit/literatur/MEET%20-%20A%20Generalized%20Framework.pdf
 
 \shorthandon{"}

diff --git a/classicthesis-config.tex b/classicthesis-config.tex
@@ -93,6 +93,7 @@
   %bibstyle=authoryear,dashed=false, % dashed: substitute rep. author with ---
   sorting=nyt, % name, year, title
   maxbibnames=10, % default: 3, et al.
+  maxcitenames = 2, % threshold for et al.
   firstinits=true,
   %backref=true,%
   natbib=true, % natbib compatibility mode (\citep and \citet still work)

diff --git a/frontbackmatter/Acronyms.tex b/frontbackmatter/Acronyms.tex
@@ -12,6 +12,7 @@
 % Insert your acronyms here
 \begin{acronym}[AWGN]%[UML]
   \acro{RS}[RS]{Recommender System}
+  \acro{N-E-K}[N-E-K]{Nutzer-Element-Kombination}
   \acro{RRS}[RRS]{Reciprocal Recommender System}
   \acro{I2P}[I2P]{Item-to-People}
   \acro{P2P}[P2P]{People-to-People}

diff --git a/thesis.tex b/thesis.tex
@@ -68,6 +68,8 @@
 \usepackage{pdfpages}
 \usepackage{float}
 \usepackage{makecell}
+\theoremstyle{definition}
+\newtheorem{definition}{Definition}[section]
 
 %*************************************************************************
 % GO!GO!GO! MOVE IT!
